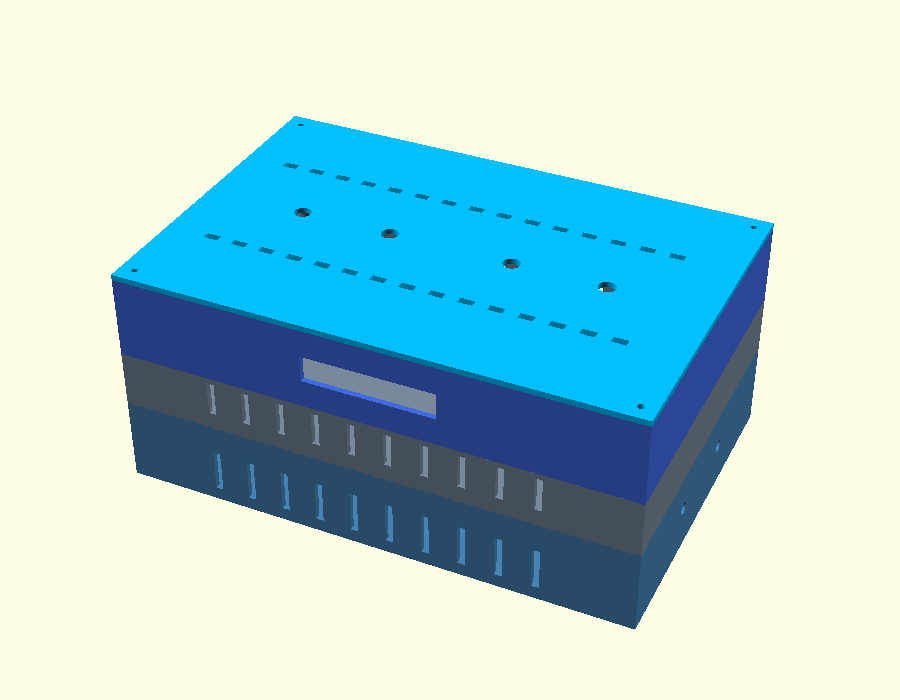
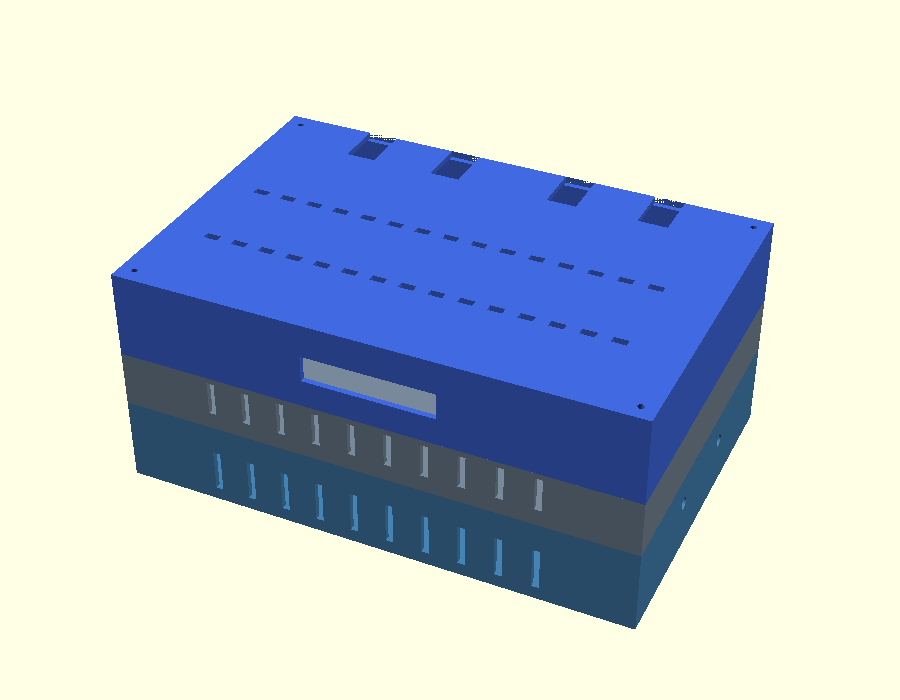
Rework enclosure to base/chamber/top, verified antenna count per part
Restructures the enclosure from 4 pieces (base/chamber/tray/cover) to 3,
matching how the hardware actually splits: base (bottom) holds
everything except the fans and the router, chamber (middle) holds the
2 fans, top holds the TP-Link router as a single liftable piece
(cradle walls + vented lid merged into one part) instead of two
separately-stacked pieces.

Verified antenna count against the real hardware instead of assuming:
- Raspberry Pi 4: 0 (onboard PCB antenna, no external connector)
- SIM7600G-H HAT: 2 ship in the box (LTE MAIN + GPS/GNSS), confirmed
  via the product listing's package contents. Board has a 3rd
  unpopulated AUX/diversity pad -- added a labeled spare hole for it.
- Alfa/MT7921 monitor adapter: 2 (confirmed against the actual unit)
- TP-Link Archer AX21: 4, confirmed fixed to the router body and
  rising from the rear edge -- not removable, not fold-flat.
- Power meter / power station: 0

Base now has 5 real SMA bulkhead holes (was a generic 4): 2 HAT + 1
spare on the left end wall, 2 Alfa on the right, each position
individually labeled rather than a generic loop.

Because the AX21's antennas are fixed and don't fold flat, plain closed
holes in the lid would mean unscrewing antennas just to lift the top
off. Replaced those with slots that are closed near the router body and
open through to the lid's rear edge -- the whole top piece lifts up and
slides back slightly to clear the antennas without touching them.
[…]

Changed region(s): [[0.1244, 0.15, 0.8711, 0.63]]

diff --git a/index.html b/index.html
@@ -52,7 +52,7 @@
       <a class="card" href="spyder-live.html"><span class="arrow">&rarr;</span><b>Silicon Spyder Live</b><span>Technician dashboard — live threat feed, stats, and detection legend</span></a>
       <a class="card" href="spyder-protect.html"><span class="arrow">&rarr;</span><b>Spyder Protection</b><span>Attendee/vendor status page — you're protected, or here's what to do</span></a>
       <a class="card" href="build-guide.html"><span class="arrow">&rarr;</span><b>Secure WiFi Box Build Guide</b><span>Architecture, parts list, wiring, enclosure, and phased build steps</span></a>
-      <a class="card" href="silicon-spyder-enclosure.scad"><img src="enclosure-preview.png" alt="Rendered preview of the 3-tier enclosure: vented cover with antenna holes, router cradle with cable-chase/handle cutouts, vented cooling chamber, and vented electronics base" /><span class="arrow">&rarr;</span><b>Enclosure (.scad)</b><span>Parametric OpenSCAD source, 4 printable parts — opens in OpenSCAD (free)</span></a>
+      <a class="card" href="silicon-spyder-enclosure.scad"><img src="enclosure-preview.png" alt="Rendered preview of the 3-part enclosure: vented router lid with rear-opening antenna slots, vented cooling chamber, and vented electronics base" /><span class="arrow">&rarr;</span><b>Enclosure (.scad)</b><span>Parametric OpenSCAD source, 3 printable parts (base / fan chamber / router top) — opens in OpenSCAD (free)</span></a>
     </div>
   </div>
 </body>

diff --git a/build-guide.html b/build-guide.html
@@ -390,7 +390,7 @@ footer{padding:32px 0 60px;color:var(--ink-faint);font-size:13px;text-align:cent
         <tr><td>Vented top cover / plate with slots</td><td>Covers the router but breathes; antennas poke through</td><td class="right">~$8</td></tr>
         <tr><td>Vented chamber walls (slotted plastic, 4 sides)</td><td>Encloses the middle cooling section</td><td class="right">~$10</td></tr>
         <tr><td>Standoff / spacer kit (~50–70mm posts)</td><td>The "legs" between tiers</td><td class="right">~$8</td></tr>
-        <tr><td>SMA panel-mount + extension cables ×3–4</td><td>Antennas on the base sides</td><td class="right">~$3 ea</td></tr>
+        <tr><td>SMA panel-mount + extension cables ×5</td><td>Base side walls: 2 for the SIM7600G-H HAT (LTE + GNSS), 2 for the Alfa/MT7921 adapter, 1 labeled spare for the HAT's unpopulated AUX/diversity pad. (The AX21's 4 antennas are fixed to the router itself and pass through slots in the top piece instead — no separate panel-mount hardware needed for those.)</td><td class="right">~$3 ea</td></tr>
         <tr><td>Corner brackets / lip + small screws</td><td>Side walls that cradle the router</td><td class="right">~$6</td></tr>
         <tr><td>5V fans ×2 (30–40mm)</td><td>Mounted in the middle cooling chamber</td><td class="right">~$12</td></tr>
       </tbody>
